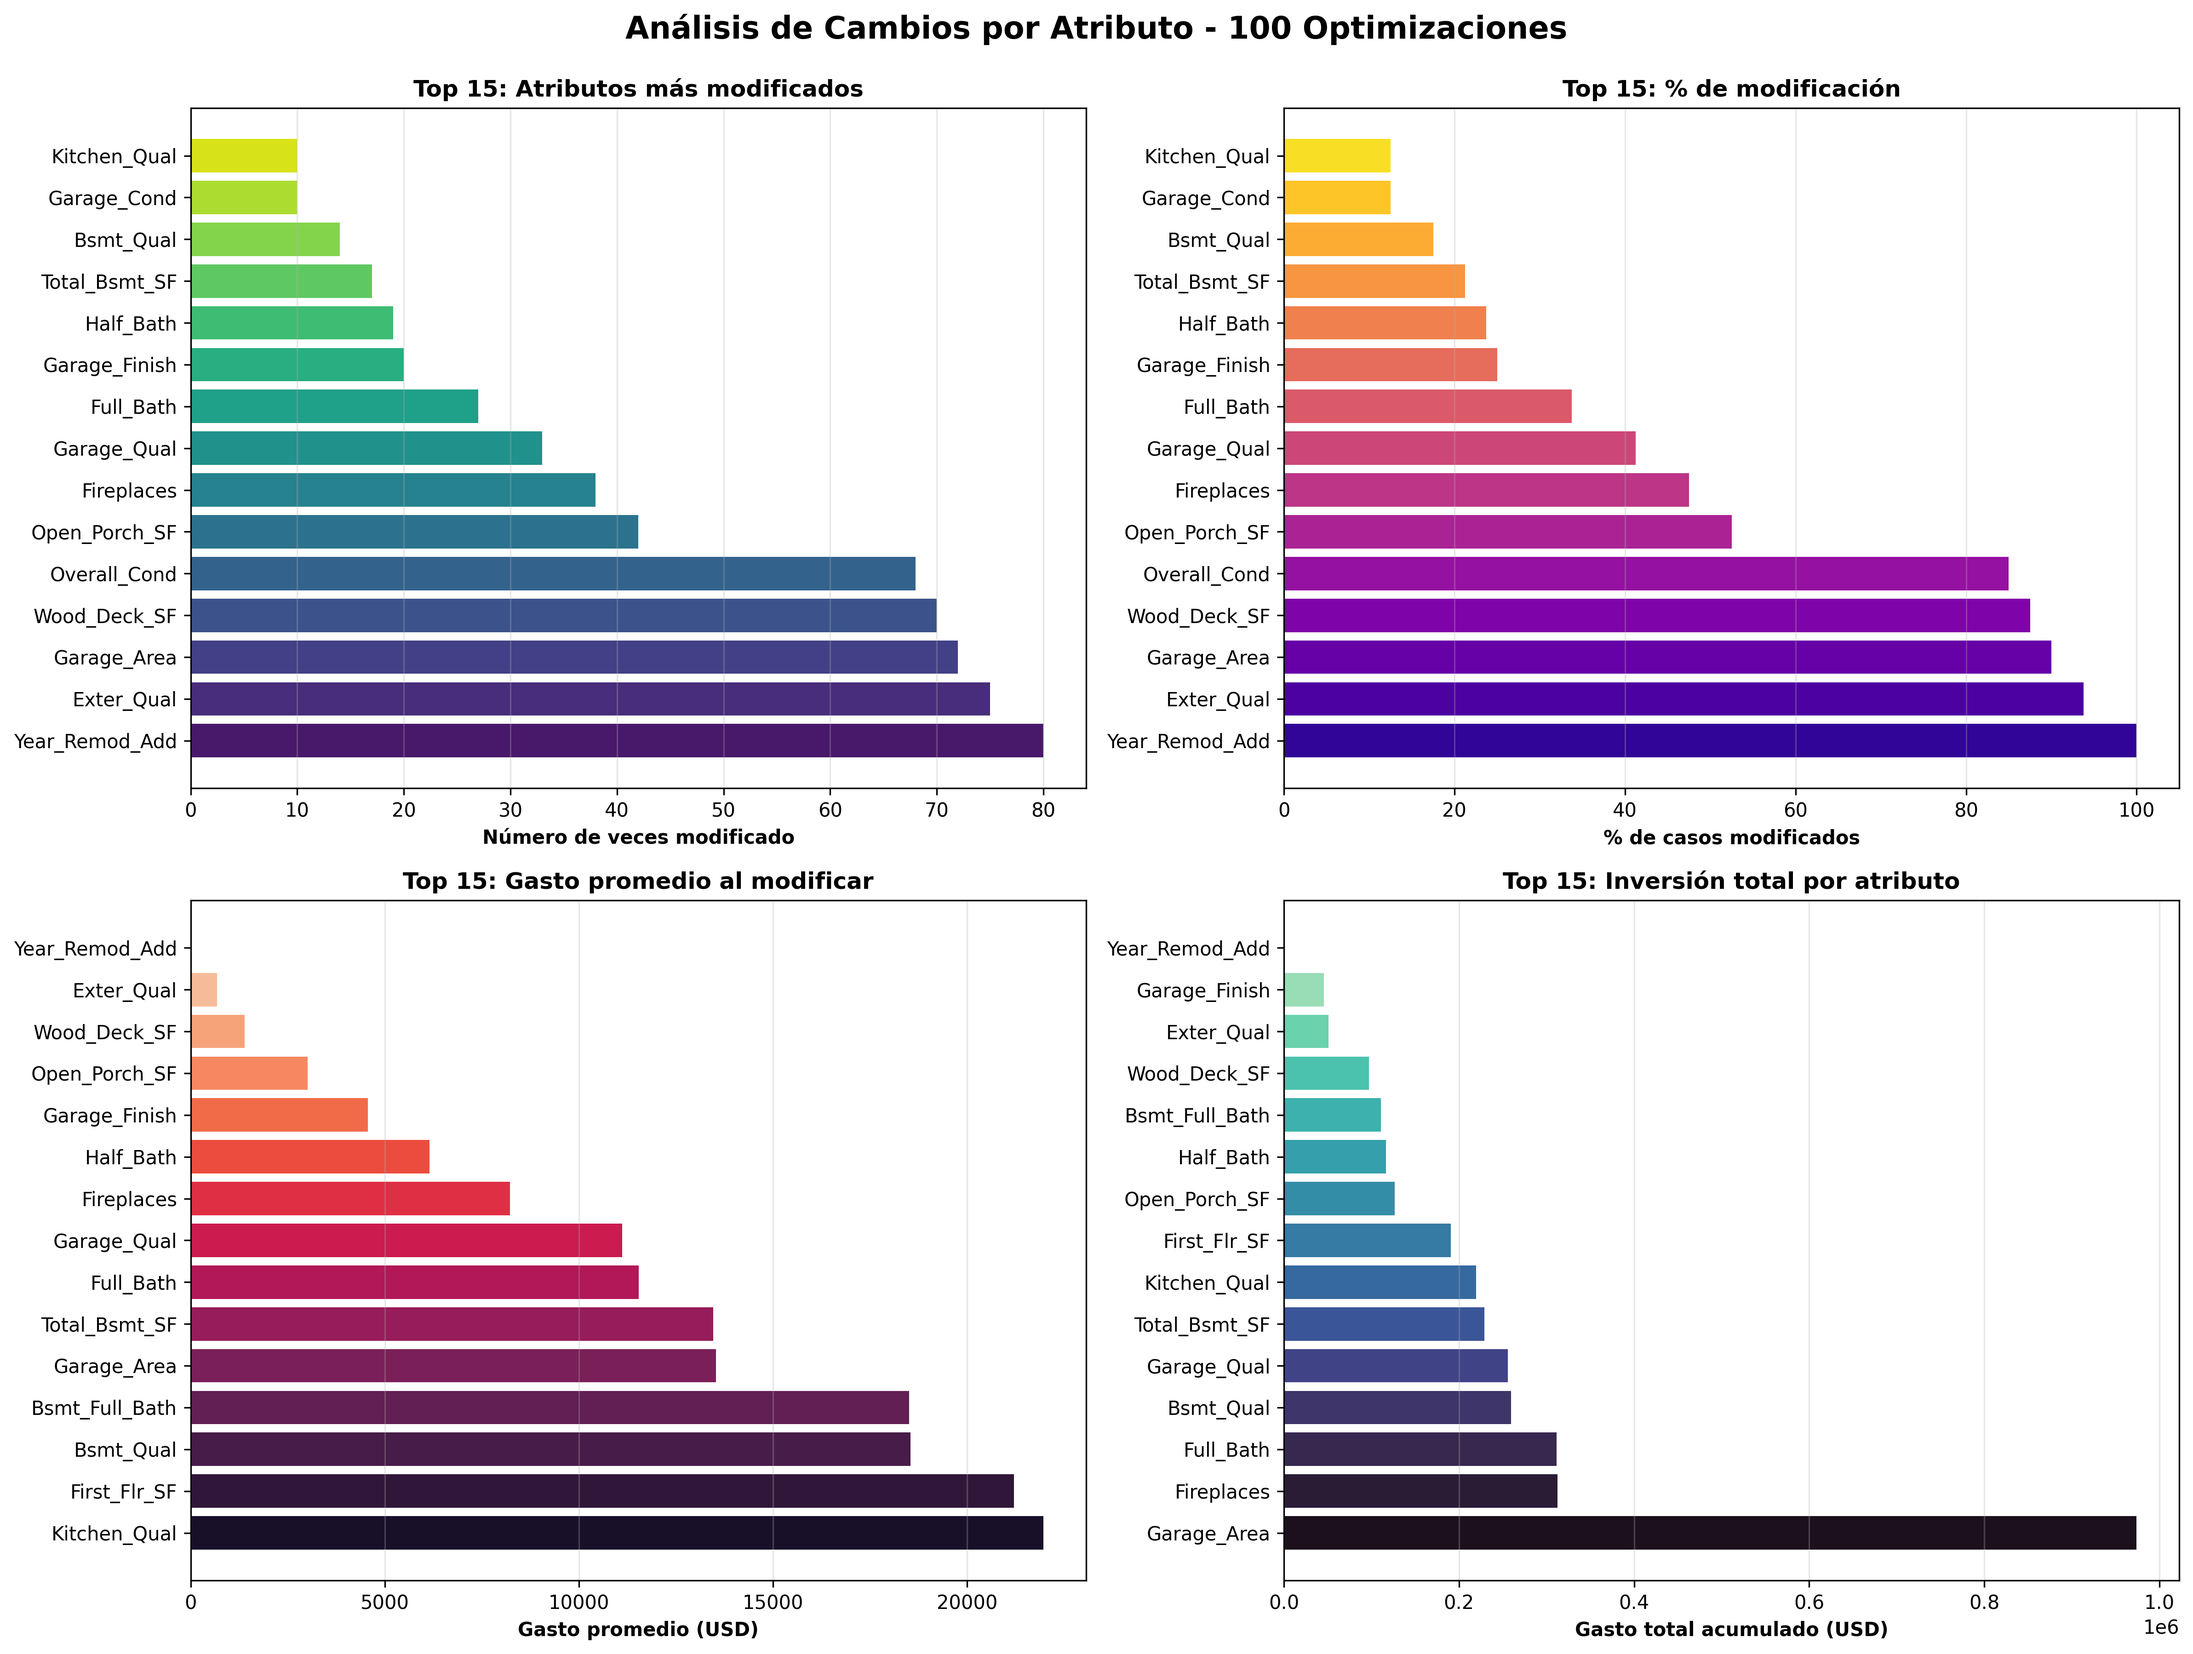
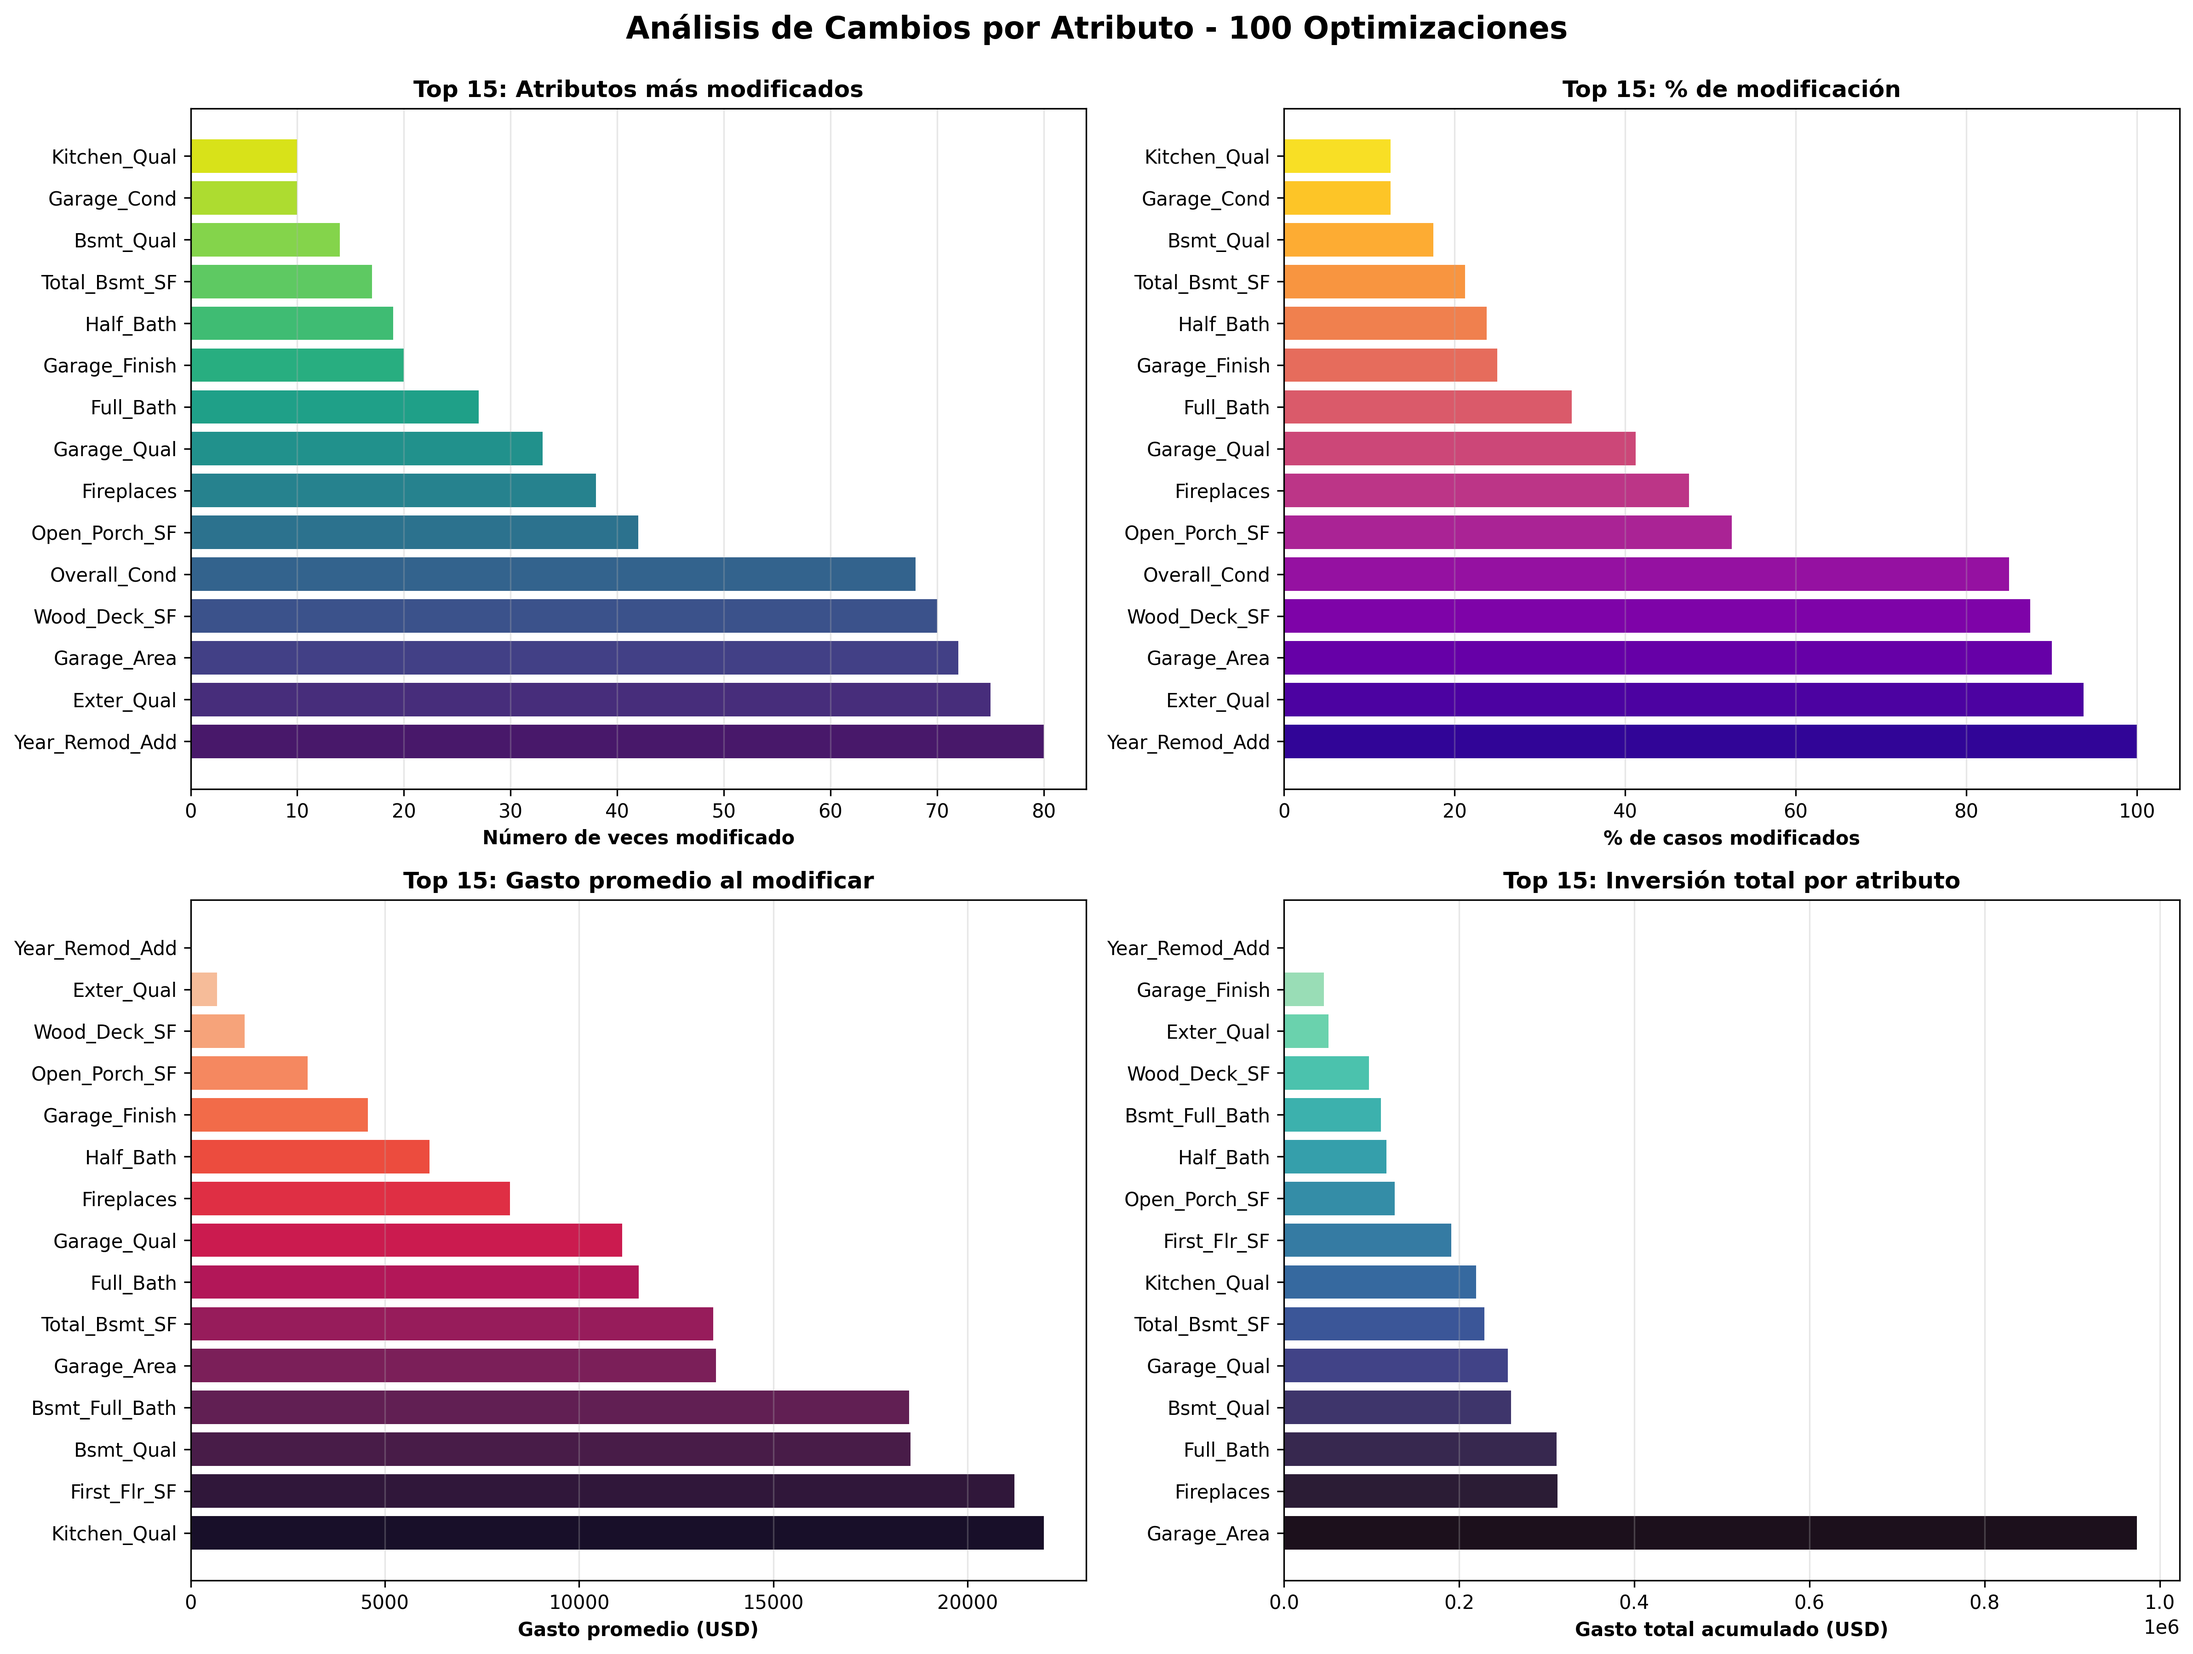
mas graficos

Changed region(s): [[0.7498, 0.5293, 0.7811, 0.5605], [0.2812, 0.5293, 0.3124, 0.5605]]

diff --git a/CASA_OPTIMA/src/plot_results.py b/CASA_OPTIMA/src/plot_results.py
@@ -177,7 +177,7 @@ costs_df["budget"] = df_clean["budget"].values
 attribute_stats = []
 
 for col in changes_df.columns:
-    if col in ["house_idx", "budget"]:
+    if col in ["house_idx", "budget", "Year_Remod_Add"]:
         continue
     
     # Número de veces que se modificó (cambio != 0)
@@ -209,49 +209,88 @@ for col in changes_df.columns:
 stats_df = pd.DataFrame(attribute_stats)
 stats_df = stats_df.sort_values("modifications", ascending=False)
 
+# Función para generar colores basados en cuartil 75
+def get_colors_by_median(values):
+    q75_val = values.quantile(0.75)
+    return ["#5DADE2" if v > q75_val else "#95A5A6" for v in values]
+
 # Gráfico 3A: Frecuencia de modificación
 print("\n[3A] Generando gráfico: Frecuencia de modificaciones...")
-fig, axes = plt.subplots(2, 2, figsize=(16, 12))
 
 # Top 15 atributos más modificados
 top_15 = stats_df.head(15)
+colors_freq = get_colors_by_median(top_15["modifications"])
 
-axes[0, 0].barh(top_15["attribute"], top_15["modifications"],
-                color=sns.color_palette("viridis", len(top_15)))
-axes[0, 0].set_xlabel("Número de veces modificado", fontweight="bold")
-axes[0, 0].set_title("Top 15: Atributos más modificados", fontweight="bold")
-axes[0, 0].grid(axis="x", alpha=0.3)
-
-# Porcentaje de modificación
-axes[0, 1].barh(top_15["attribute"], top_15["pct_modified"],
-                color=sns.color_palette("plasma", len(top_15)))
-axes[0, 1].set_xlabel("% de casos modificados", fontweight="bold")
-axes[0, 1].set_title("Top 15: % de modificación", fontweight="bold")
-axes[0, 1].grid(axis="x", alpha=0.3)
-
-# Gasto promedio por atributo (cuando se modifica)
-top_15_cost = stats_df.nlargest(15, "avg_cost")
-axes[1, 0].barh(top_15_cost["attribute"], top_15_cost["avg_cost"],
-                color=sns.color_palette("rocket", len(top_15_cost)))
-axes[1, 0].set_xlabel("Gasto promedio (USD)", fontweight="bold")
-axes[1, 0].set_title("Top 15: Gasto promedio al modificar", fontweight="bold")
-axes[1, 0].grid(axis="x", alpha=0.3)
-
-# Gasto total acumulado por atributo
-top_15_total = stats_df.nlargest(15, "total_cost")
-axes[1, 1].barh(top_15_total["attribute"], top_15_total["total_cost"],
-                color=sns.color_palette("mako", len(top_15_total)))
-axes[1, 1].set_xlabel("Gasto total acumulado (USD)", fontweight="bold")
-axes[1, 1].set_title("Top 15: Inversión total por atributo", fontweight="bold")
-axes[1, 1].grid(axis="x", alpha=0.3)
-
-plt.suptitle("Análisis de Cambios por Atributo - 100 Optimizaciones",
-             fontsize=16, fontweight="bold", y=0.995)
+plt.figure(figsize=(10, 8))
+plt.barh(top_15["attribute"], top_15["modifications"], color=colors_freq)
+plt.xlabel("Número de veces modificado", fontsize=12, fontweight="bold")
+plt.title("Top 15: Atributos más modificados",
+          fontsize=14, fontweight="bold")
+plt.grid(axis="x", alpha=0.3)
 plt.tight_layout()
 
-output_path_3 = f"{OUTPUT_DIR}/analisis_atributos.png"
-plt.savefig(output_path_3, dpi=300, bbox_inches="tight")
-print(f"✓ Guardado: {output_path_3}")
+output_path_3a = f"{OUTPUT_DIR}/atributos_frecuencia.png"
+plt.savefig(output_path_3a, dpi=300, bbox_inches="tight")
+print(f"✓ Guardado: {output_path_3a}")
+plt.close()
+
+# Gráfico 3B: Porcentaje de modificación
+print("\n[3B] Generando gráfico: % de modificación...")
+colors_pct = get_colors_by_median(top_15["pct_modified"])
+
+plt.figure(figsize=(10, 8))
+plt.barh(top_15["attribute"], top_15["pct_modified"], color=colors_pct)
+plt.xlabel("% de casos modificados", fontsize=12, fontweight="bold")
+plt.title("Top 15: % de modificación",
+          fontsize=14, fontweight="bold")
+plt.grid(axis="x", alpha=0.3)
+plt.tight_layout()
+
+output_path_3b = f"{OUTPUT_DIR}/atributos_porcentaje.png"
+plt.savefig(output_path_3b, dpi=300, bbox_inches="tight")
+print(f"✓ Guardado: {output_path_3b}")
+plt.close()
+
+# Gráfico 3C: Gasto promedio por atributo
+print("\n[3C] Generando gráfico: Gasto promedio...")
+top_15_cost = stats_df.nlargest(15, "avg_cost")
+colors_avg = get_colors_by_median(top_15_cost["avg_cost"])
+
+plt.figure(figsize=(10, 8))
+plt.barh(top_15_cost["attribute"], top_15_cost["avg_cost"], color=colors_avg)
+plt.xlabel("Gasto promedio (USD)", fontsize=12, fontweight="bold")
+plt.title("Top 15: Gasto promedio al modificar",
+          fontsize=14, fontweight="bold")
+plt.grid(axis="x", alpha=0.3)
+plt.tight_layout()
+
+output_path_3c = f"{OUTPUT_DIR}/atributos_gasto_promedio.png"
+plt.savefig(output_path_3c, dpi=300, bbox_inches="tight")
+print(f"✓ Guardado: {output_path_3c}")
+plt.close()
+
+# Gráfico 3D: Gasto total acumulado
+print("\n[3D] Generando gráfico: Gasto total acumulado...")
+top_15_total = stats_df.nlargest(15, "total_cost")
+colors_total = get_colors_by_median(top_15_total["total_cost"])
+
+plt.figure(figsize=(10, 8))
+plt.barh(top_15_total["attribute"], top_15_total["total_cost"],
+         color=colors_total)
+plt.xlabel("Gasto total acumulado (USD)", fontsize=12, fontweight="bold")
+plt.title("Top 15: Inversión total por atributo",
+          fontsize=14, fontweight="bold")
+plt.grid(axis="x", alpha=0.3)
+
+# Formatear el eje X para evitar notación científica
+ax = plt.gca()
+ax.ticklabel_format(style='plain', axis='x')
+
+plt.tight_layout()
+
+output_path_3d = f"{OUTPUT_DIR}/atributos_gasto_total.png"
+plt.savefig(output_path_3d, dpi=300, bbox_inches="tight")
+print(f"✓ Guardado: {output_path_3d}")
 plt.close()
 
 # Guardar estadísticas en CSV
